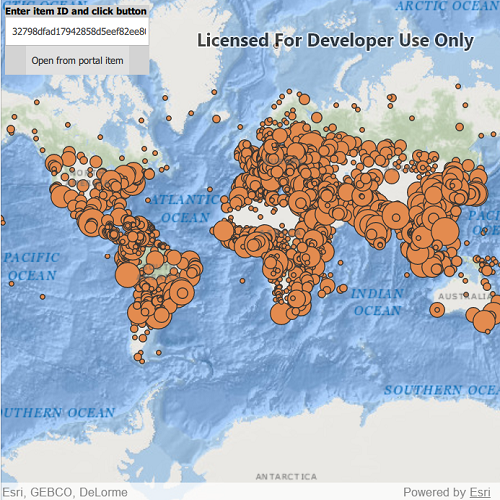
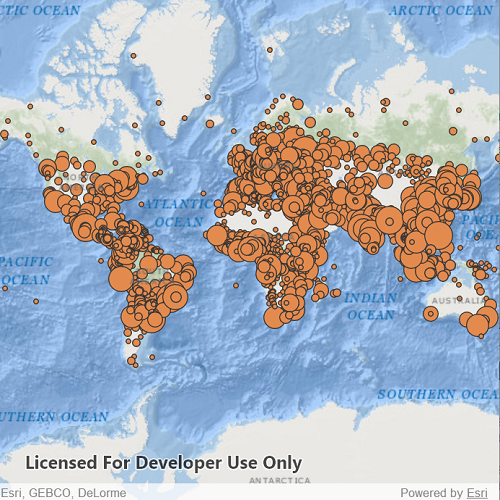
Update READMEs and screenshots and add comments to code

diff --git a/ArcGISRuntimeSDKQt_QMLSamples/Layers/FeatureCollectionLayerFromPortal/FeatureCollectionLayerFromPortal.qml b/ArcGISRuntimeSDKQt_QMLSamples/Layers/FeatureCollectionLayerFromPortal/FeatureCollectionLayerFromPortal.qml
@@ -30,9 +30,6 @@ Rectangle {
 
         PortalItem {
             id: portalItem
-            Portal {
-
-            }
             itemId: "32798dfad17942858d5eef82ee802f0b"
             Component.onCompleted: load();
             onLoadStatusChanged: {
@@ -40,6 +37,7 @@ Rectangle {
                     return;
                 }
 
+                // if the portal item is a feature collection, add the feature collection to the map's operational layers
                 if (type === Enums.PortalItemTypeFeatureCollection) {
                     const featureCollection = ArcGISRuntimeEnvironment.createObject("FeatureCollection", {item: portalItem});
                     const featureCollectionLayer = ArcGISRuntimeEnvironment.createObject("FeatureCollectionLayer", {featureCollection: featureCollection});

diff --git a/ArcGISRuntimeSDKQt_CppSamples/Layers/FeatureCollectionLayerFromPortal/FeatureCollectionLayerFromPortal.cpp b/ArcGISRuntimeSDKQt_CppSamples/Layers/FeatureCollectionLayerFromPortal/FeatureCollectionLayerFromPortal.cpp
@@ -48,6 +48,7 @@ FeatureCollectionLayerFromPortal::FeatureCollectionLayerFromPortal(QObject* pare
       return;
     }
 
+    // if the portal item is a feature collection, add the feature collection to the map's operational layers
     if (m_portalItem->type() == PortalItemType::FeatureCollection)
     {
       FeatureCollection* featureCollection = new FeatureCollection(m_portalItem, this);

diff --git a/ArcGISRuntimeSDKQt_CppSamples/Layers/FeatureCollectionLayerFromPortal/README.md b/ArcGISRuntimeSDKQt_CppSamples/Layers/FeatureCollectionLayerFromPortal/README.md
@@ -10,7 +10,7 @@ Feature collection layers are often used to hold features with mixed geometry or
 
 ## How to use the sample
 
-Enter the ID of a Portal item that holds a feature collection into the text field, and click on the button to see result.
+The feature collection is loaded from the Portal item when the sample starts.
 
 ## How it works
 

diff --git a/ArcGISRuntimeSDKQt_QMLSamples/Layers/FeatureCollectionLayerFromPortal/README.md b/ArcGISRuntimeSDKQt_QMLSamples/Layers/FeatureCollectionLayerFromPortal/README.md
@@ -10,7 +10,7 @@ Feature collection layers are often used to hold features with mixed geometry or
 
 ## How to use the sample
 
-Enter the ID of a Portal item that holds a feature collection into the text field, and click on the button to see result.
+The feature collection is loaded from the Portal item when the sample starts.
 
 ## How it works
 
